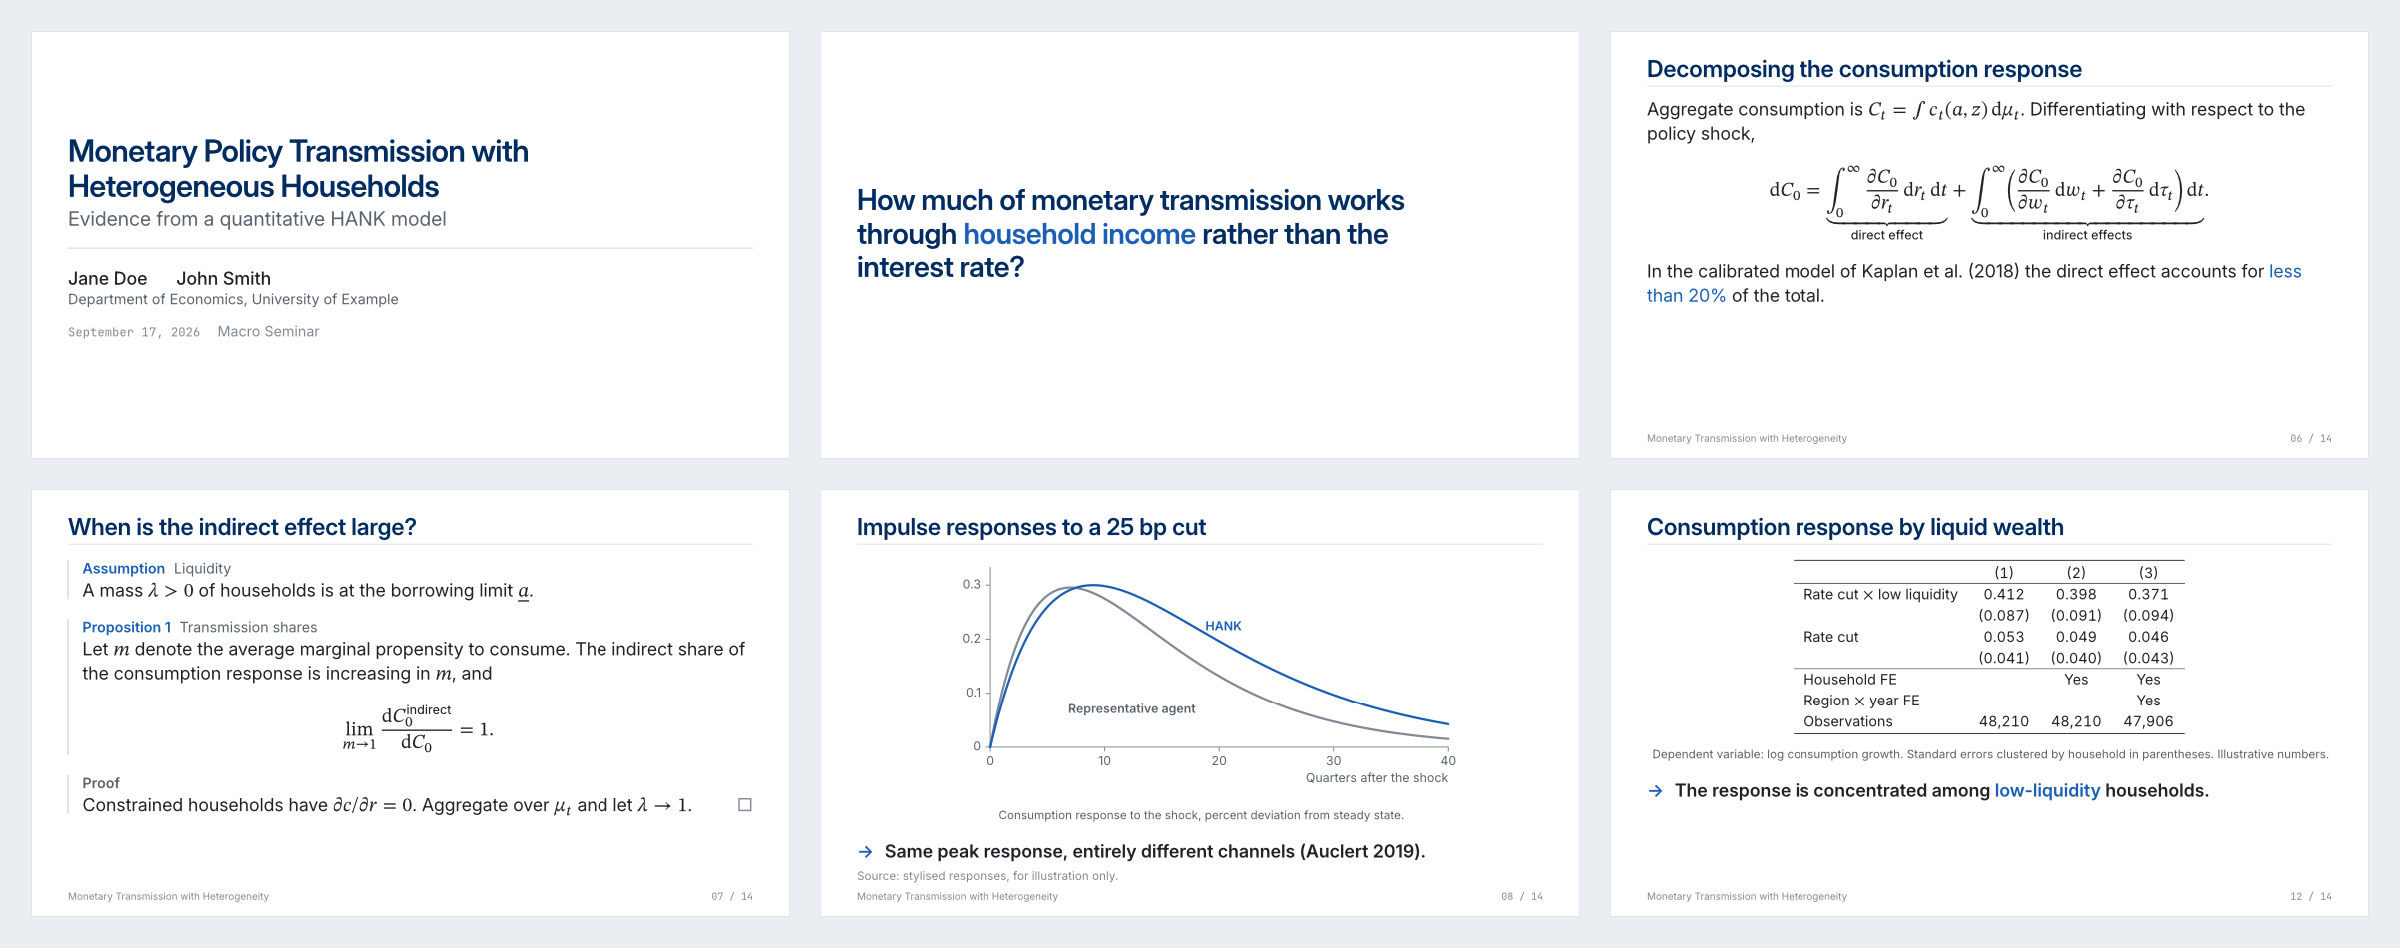
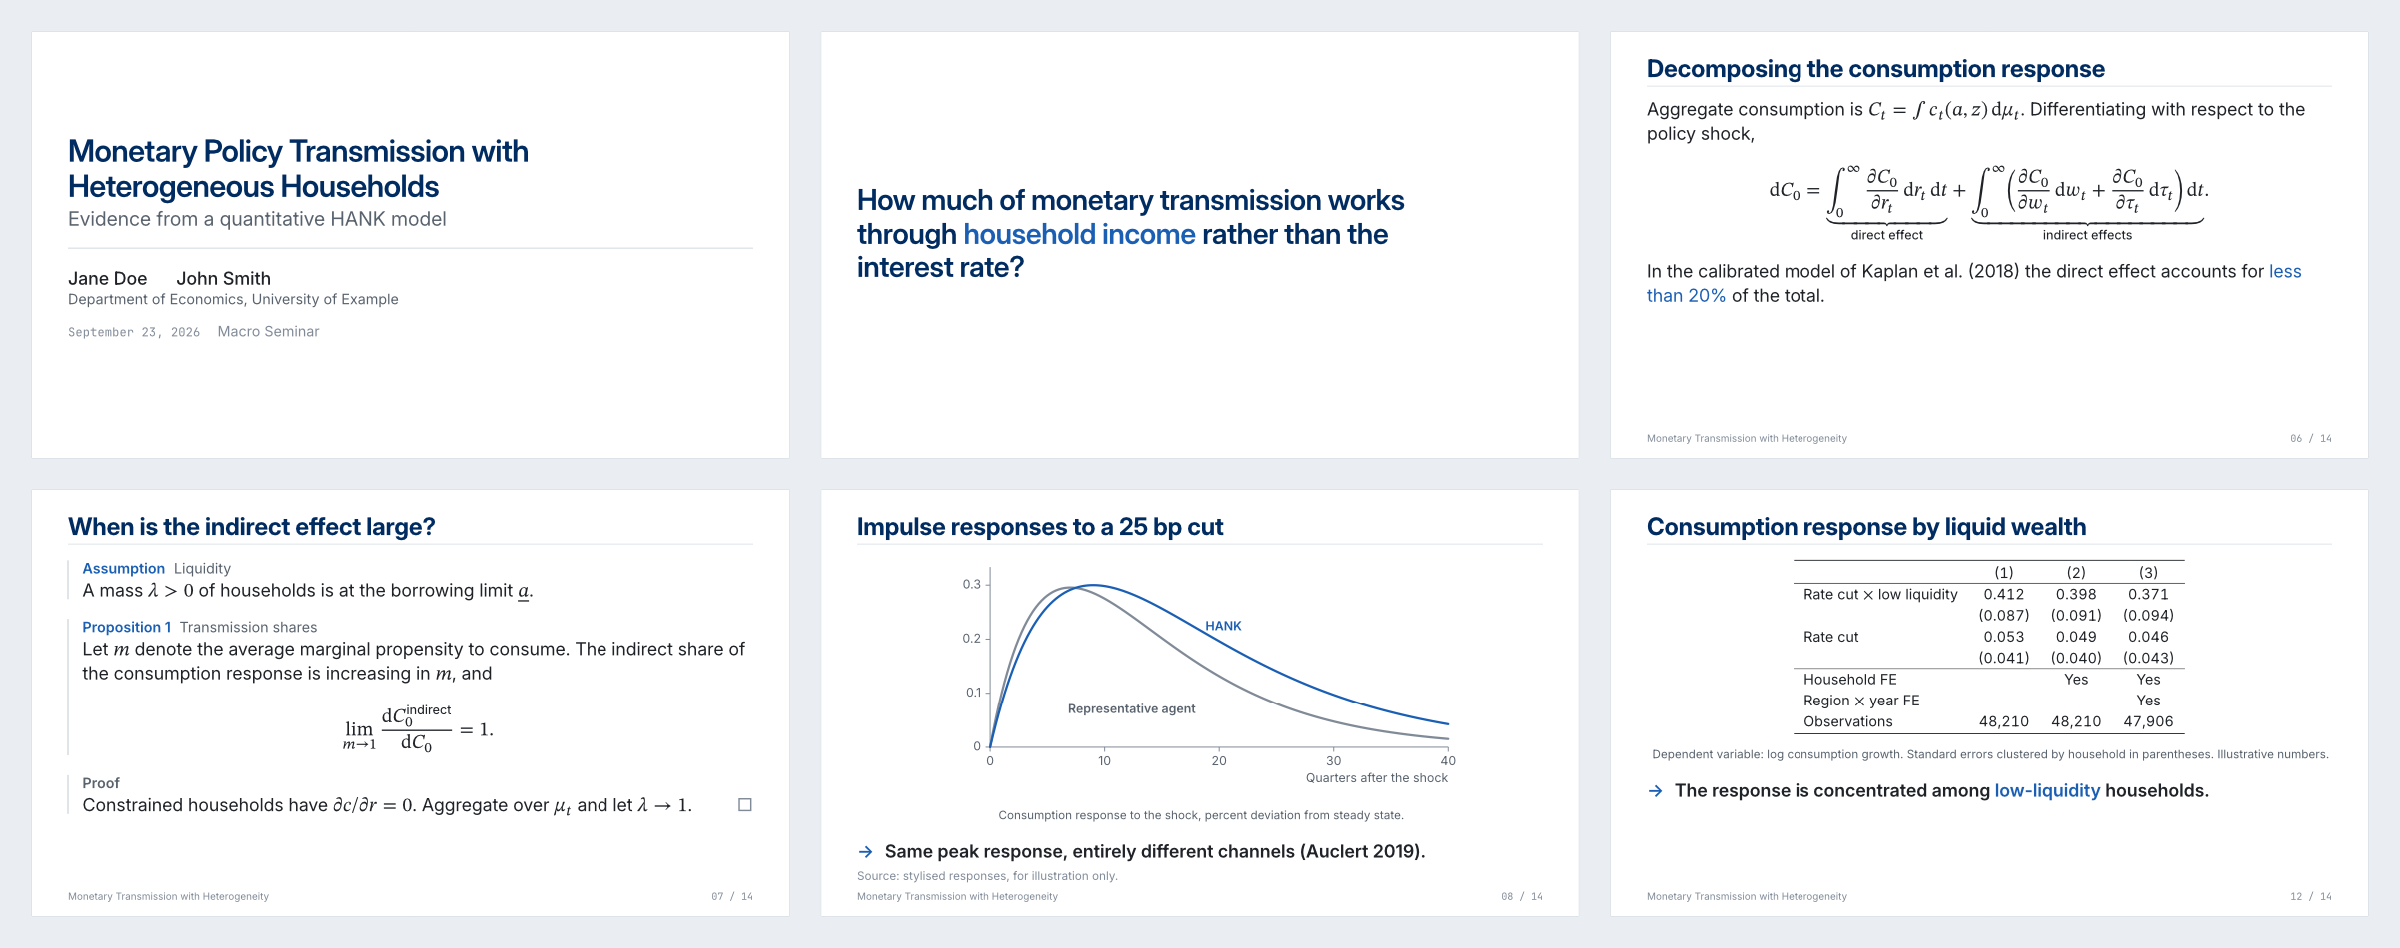
Bold slide titles, highlighter-style #highlight, navy accent preset
After JambroBeamerTheme (ideas only; it is GPL-3.0):
- Slide titles are bold (700) and 27pt, still over the hairline rule.
- #highlight is a warm highlighter-pen fill (`marker` token), never the accent.
- New `navy` accent preset, a muted blue; the default stays `blue`.

diff --git a/CLAUDE.md b/CLAUDE.md
@@ -123,7 +123,10 @@ temporary 150pt region used during Touying's overflow measurement. Warnings use
   Titles (slide, section, deck, focus) are not the accent but `title-ink(accent)`
   in `tokens.typ`: the accent's hue at ink darkness (blue gives navy, `mono`
   stays ink), so `#alert` remains the brightest thing on a slide. Never set a
-  title in the accent itself.
+  title in the accent itself. Slide titles are bold (700) over a hairline rule.
+  The one exception to "accent on text only" is `#highlight`, a warm
+  highlighter-pen fill (`marker` in `tokens.typ`, after JambroBeamerTheme); it
+  is never the accent. List bullets stay the quiet grey `•` / `–`.
 - **Margins are moderate, not keynote-wide** (40pt sides, 78pt top, 40pt
   bottom): the body is about 68% of the page, because regression tables and
   figures need the room. Do not widen them back, and do not go edge-to-edge

diff --git a/README.md b/README.md
@@ -113,7 +113,7 @@ $ V_t (a, z) = max_(c, a') u(c) + beta EE_t [V_(t+1) (a', z')] $
 
 | Argument | Default | |
 |---|---|---|
-| `accent` | `"blue"` | `"blue"`, `"green"`, `"burgundy"`, `"purple"`, `"orange"`, `"mono"`, or any color. Titles take a near-black shade of the same hue (navy for blue); `"mono"` keeps them black |
+| `accent` | `"blue"` | `"blue"`, `"navy"`, `"green"`, `"burgundy"`, `"purple"`, `"orange"`, `"mono"`, or any color. Titles take a near-black shade of the same hue (navy for blue); `"mono"` keeps them black |
 | `aspect-ratio` | `"16-9"` | or `"4-3"` |
 | `footer` | `auto` | `auto` shows the short title; `none` leaves only the slide counter |
 | `text-size` | `20pt` | Body text size; see [Dense slides](#dense-slides) |
